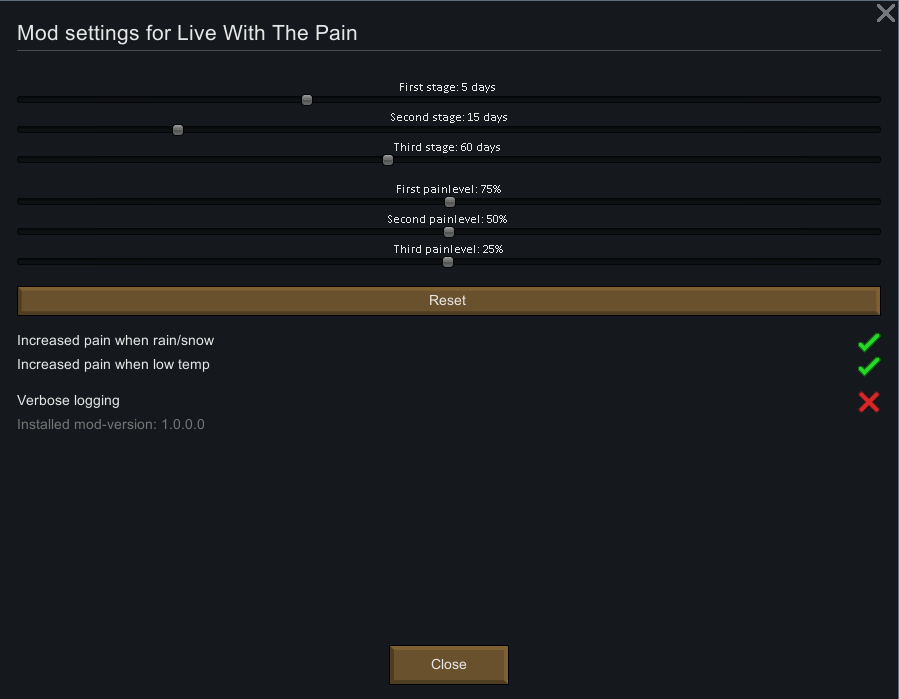
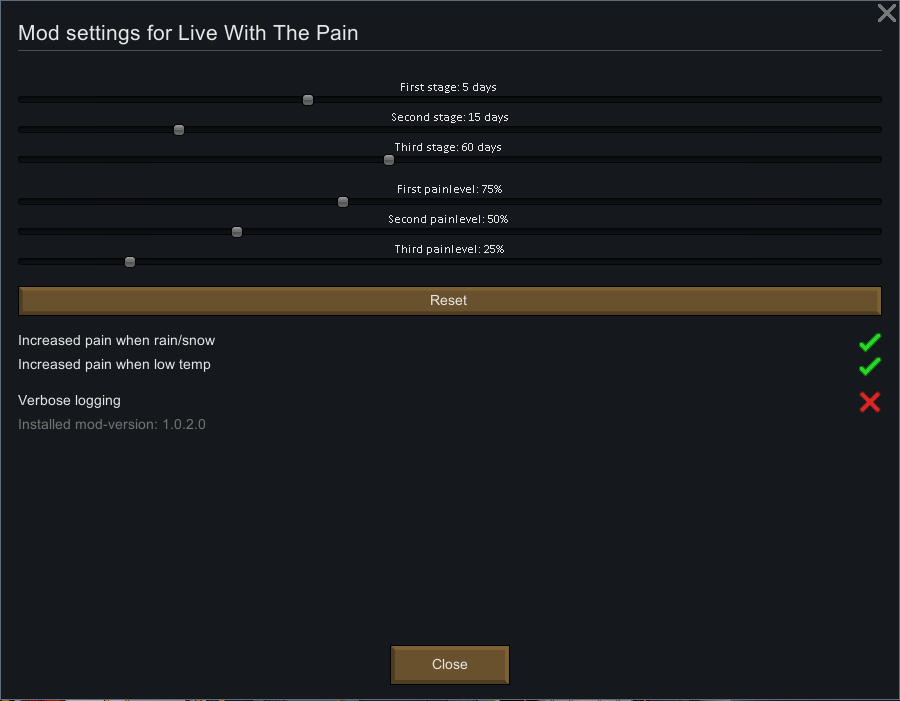
Its now possible to set the pain level higher than 100% and also make it worse over time instead of better.

diff --git a/Source/LiveWithThePain/LiveWithThePainMod.cs b/Source/LiveWithThePain/LiveWithThePainMod.cs
@@ -4,134 +4,130 @@ using RimWorld;
 using UnityEngine;
 using Verse;
 
-namespace LiveWithThePain
+namespace LiveWithThePain;
+
+[StaticConstructorOnStartup]
+internal class LiveWithThePainMod : Mod
 {
-    [StaticConstructorOnStartup]
-    internal class LiveWithThePainMod : Mod
+    private static string currentVersion;
+
+    public static LiveWithThePainMod Instance;
+
+    /// <summary>
+    ///     The private settings
+    /// </summary>
+    public LiveWithThePainSettings settings;
+
+
+    /// <summary>
+    ///     Cunstructor
+    /// </summary>
+    /// <param name="content"></param>
+    public LiveWithThePainMod(ModContentPack content) : base(content)
     {
-        private static string currentVersion;
+        Instance = this;
+        currentVersion =
+            VersionFromManifest.GetVersionFromModMetaData(
+                ModLister.GetActiveModWithIdentifier("Mlie.LiveWithThePain"));
+    }
 
-        public static LiveWithThePainMod Instance;
-
-        /// <summary>
-        ///     The private settings
-        /// </summary>
-        public LiveWithThePainSettings settings;
-
-
-        /// <summary>
-        ///     Cunstructor
-        /// </summary>
-        /// <param name="content"></param>
-        public LiveWithThePainMod(ModContentPack content) : base(content)
+    /// <summary>
+    ///     The instance-settings for the mod
+    /// </summary>
+    public LiveWithThePainSettings Settings
+    {
+        get
         {
-            Instance = this;
-            currentVersion =
-                VersionFromManifest.GetVersionFromModMetaData(
-                    ModLister.GetActiveModWithIdentifier("Mlie.LiveWithThePain"));
-        }
-
-        /// <summary>
-        ///     The instance-settings for the mod
-        /// </summary>
-        public LiveWithThePainSettings Settings
-        {
-            get
+            if (settings == null)
             {
-                if (settings == null)
-                {
-                    settings = GetSettings<LiveWithThePainSettings>();
-                }
-
-                return settings;
-            }
-            set => settings = value;
-        }
-
-        /// <summary>
-        ///     The title for the mod-settings
-        /// </summary>
-        /// <returns></returns>
-        public override string SettingsCategory()
-        {
-            return "Live With The Pain";
-        }
-
-        /// <summary>
-        ///     The settings-window
-        ///     For more info: https://rimworldwiki.com/wiki/Modding_Tutorials/ModSettings
-        /// </summary>
-        /// <param name="rect"></param>
-        public override void DoSettingsWindowContents(Rect rect)
-        {
-            var listing_Standard = new Listing_Standard();
-            listing_Standard.Begin(rect);
-            listing_Standard.Gap();
-            var spacer = 30;
-            listing_Standard.Gap();
-            Settings.StageOne = (int)Widgets.HorizontalSlider(listing_Standard.GetRect(spacer), Settings.StageOne, 0,
-                Settings.StageTwo, false,
-                $"{"LWTP.StageOne".Translate()}: {"LWTP.Days".Translate(Settings.StageOne / GenDate.TicksPerDay)}",
-                null, null, 1);
-            Settings.StageTwo = (int)Widgets.HorizontalSlider(listing_Standard.GetRect(spacer), Settings.StageTwo,
-                Settings.StageOne,
-                Settings.StageThree, false,
-                $"{"LWTP.StageTwo".Translate()}: {"LWTP.Days".Translate(Settings.StageTwo / GenDate.TicksPerDay)}",
-                null, null,
-                1);
-            Settings.StageThree = (int)Widgets.HorizontalSlider(listing_Standard.GetRect(spacer), Settings.StageThree,
-                Settings.StageTwo,
-                GenDate.TicksPerYear * 2,
-                false,
-                $"{"LWTP.StageThree".Translate()}: {"LWTP.Days".Translate(Settings.StageThree / GenDate.TicksPerDay)}",
-                null, null, 1);
-
-            listing_Standard.Gap();
-            Settings.PainOne = Widgets.HorizontalSlider(listing_Standard.GetRect(spacer), Settings.PainOne,
-                1f,
-                Settings.PainTwo + 0.001f, false,
-                $"{"LWTP.PainOne".Translate()}: {"LWTP.Percent".Translate(Math.Round(Settings.PainOne * 100))}");
-            Settings.PainTwo = Widgets.HorizontalSlider(listing_Standard.GetRect(spacer),
-                Settings.PainTwo,
-                Settings.PainOne - 0.001f,
-                Settings.PainThree + 0.001f, false,
-                $"{"LWTP.PainTwo".Translate()}: {"LWTP.Percent".Translate(Math.Round(Settings.PainTwo * 100))}");
-            Settings.PainThree = Widgets.HorizontalSlider(listing_Standard.GetRect(spacer), Settings.PainThree,
-                Settings.PainTwo - 0.001f, 0,
-                false,
-                $"{"LWTP.PainThree".Translate()}: {"LWTP.Percent".Translate(Math.Round(Settings.PainThree * 100))}");
-
-            listing_Standard.Gap();
-
-
-            if (listing_Standard.ButtonText("LWTP.Reset".Translate()))
-            {
-                Settings.StageThree = GenDate.TicksPerYear;
-                Settings.StageTwo = GenDate.TicksPerQuadrum;
-                Settings.StageOne = GenDate.TicksPerTwelfth;
-                Settings.PainOne = 0.75f;
-                Settings.PainTwo = 0.5f;
-                Settings.PainThree = 0.25f;
-                listing_Standard.Gap();
+                settings = GetSettings<LiveWithThePainSettings>();
             }
 
-            listing_Standard.Gap();
-            listing_Standard.CheckboxLabeled("LWTP.RainAches.Label".Translate(), ref Settings.RainAches,
-                "LWTP.RainAches.ToolTip".Translate());
-            listing_Standard.CheckboxLabeled("LWTP.TempAches.Label".Translate(), ref Settings.TempAches,
-                "LWTP.TempAches.ToolTip".Translate());
-            listing_Standard.Gap();
-            listing_Standard.CheckboxLabeled("LWTP.VerboseLogging.Label".Translate(), ref Settings.VerboseLogging,
-                "LWTP.VerboseLogging.ToolTip".Translate());
-
-            if (currentVersion != null)
-            {
-                GUI.contentColor = Color.gray;
-                listing_Standard.Label("LWTP.version.label".Translate(currentVersion));
-                GUI.contentColor = Color.white;
-            }
-
-            listing_Standard.End();
+            return settings;
         }
+        set => settings = value;
+    }
+
+    /// <summary>
+    ///     The title for the mod-settings
+    /// </summary>
+    /// <returns></returns>
+    public override string SettingsCategory()
+    {
+        return "Live With The Pain";
+    }
+
+    /// <summary>
+    ///     The settings-window
+    ///     For more info: https://rimworldwiki.com/wiki/Modding_Tutorials/ModSettings
+    /// </summary>
+    /// <param name="rect"></param>
+    public override void DoSettingsWindowContents(Rect rect)
+    {
+        var listing_Standard = new Listing_Standard();
+        listing_Standard.Begin(rect);
+        listing_Standard.Gap();
+        var spacer = 30;
+        listing_Standard.Gap();
+        Settings.StageOne = (int)Widgets.HorizontalSlider(listing_Standard.GetRect(spacer), Settings.StageOne, 0,
+            Settings.StageTwo, false,
+            $"{"LWTP.StageOne".Translate()}: {"LWTP.Days".Translate(Settings.StageOne / GenDate.TicksPerDay)}",
+            null, null, 1);
+        Settings.StageTwo = (int)Widgets.HorizontalSlider(listing_Standard.GetRect(spacer), Settings.StageTwo,
+            Settings.StageOne,
+            Settings.StageThree, false,
+            $"{"LWTP.StageTwo".Translate()}: {"LWTP.Days".Translate(Settings.StageTwo / GenDate.TicksPerDay)}",
+            null, null,
+            1);
+        Settings.StageThree = (int)Widgets.HorizontalSlider(listing_Standard.GetRect(spacer), Settings.StageThree,
+            Settings.StageTwo,
+            GenDate.TicksPerYear * 2,
+            false,
+            $"{"LWTP.StageThree".Translate()}: {"LWTP.Days".Translate(Settings.StageThree / GenDate.TicksPerDay)}",
+            null, null, 1);
+
+        listing_Standard.Gap();
+        Settings.PainOne = Widgets.HorizontalSlider(listing_Standard.GetRect(spacer), Settings.PainOne,
+            0, 2f, false,
+            $"{"LWTP.PainOne".Translate()}: {"LWTP.Percent".Translate(Math.Round(Settings.PainOne * 100))}");
+        Settings.PainTwo = Widgets.HorizontalSlider(listing_Standard.GetRect(spacer),
+            Settings.PainTwo,
+            0, 2f, false,
+            $"{"LWTP.PainTwo".Translate()}: {"LWTP.Percent".Translate(Math.Round(Settings.PainTwo * 100))}");
+        Settings.PainThree = Widgets.HorizontalSlider(listing_Standard.GetRect(spacer), Settings.PainThree,
+            0, 2f, false,
+            $"{"LWTP.PainThree".Translate()}: {"LWTP.Percent".Translate(Math.Round(Settings.PainThree * 100))}");
+
+        listing_Standard.Gap();
+
+
+        if (listing_Standard.ButtonText("LWTP.Reset".Translate()))
+        {
+            Settings.StageThree = GenDate.TicksPerYear;
+            Settings.StageTwo = GenDate.TicksPerQuadrum;
+            Settings.StageOne = GenDate.TicksPerTwelfth;
+            Settings.PainOne = 0.75f;
+            Settings.PainTwo = 0.5f;
+            Settings.PainThree = 0.25f;
+            listing_Standard.Gap();
+        }
+
+        listing_Standard.Gap();
+        listing_Standard.CheckboxLabeled("LWTP.RainAches.Label".Translate(), ref Settings.RainAches,
+            "LWTP.RainAches.ToolTip".Translate());
+        listing_Standard.CheckboxLabeled("LWTP.TempAches.Label".Translate(), ref Settings.TempAches,
+            "LWTP.TempAches.ToolTip".Translate());
+        listing_Standard.Gap();
+        listing_Standard.CheckboxLabeled("LWTP.VerboseLogging.Label".Translate(), ref Settings.VerboseLogging,
+            "LWTP.VerboseLogging.ToolTip".Translate());
+
+        if (currentVersion != null)
+        {
+            GUI.contentColor = Color.gray;
+            listing_Standard.Label("LWTP.version.label".Translate(currentVersion));
+            GUI.contentColor = Color.white;
+        }
+
+        listing_Standard.End();
     }
 }
